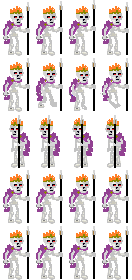
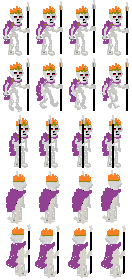
Fixed Smoke Particles

diff --git a/js/utilities/smokeParticles.js b/js/utilities/smokeParticles.js
@@ -24,9 +24,7 @@ function smokeClass() {
 	}
 
 	this.draw = function() {
-		colorCircle(isoDrawX-(this.width/2), isoDrawY-this.height - this.isoFootY,
-			(20 * this.cyclesLeft/130.0),
-		 this.myColor);
+		colorCircle(this.x, this.y, (20 * this.cyclesLeft/130.0), this.myColor);
 	}
 }
 

diff --git a/js/utilities/soundAndMusic.js b/js/utilities/soundAndMusic.js
@@ -1,6 +1,6 @@
 var audioFormat;
 var isMuted = false;
-var soundSetforMeetings = false; //make false to hear at normal level
+var soundSetforMeetings = true; //make false to hear at normal level
 
 //sounds
 var crashIntoConeSound = new SoundOverlapsClass("crashCone");

diff --git a/js/gameStates/characterSelection.js b/js/gameStates/characterSelection.js
@@ -72,7 +72,7 @@ class CharacterSelection extends GameState {
   		addSmoke(760, 335); //torch 4
   	}
 
-  	moveSmoke()
+  	moveSmoke();
   	drawSmoke();
 
   	this.torch1.draw();
